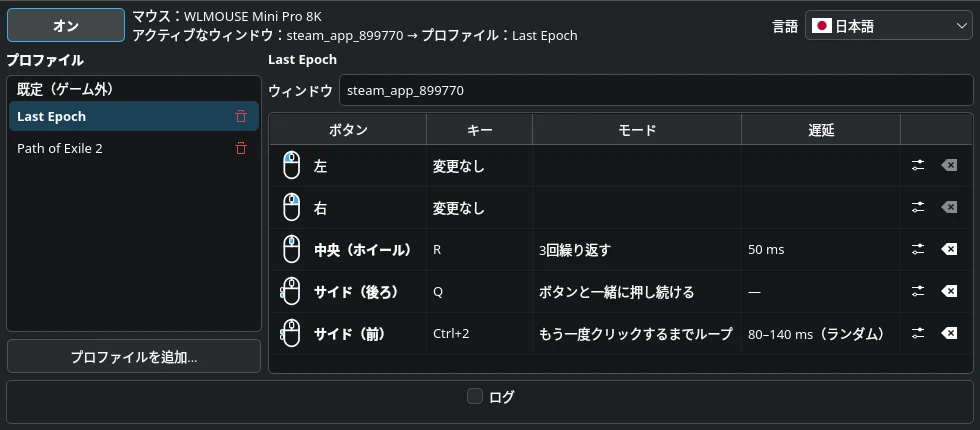
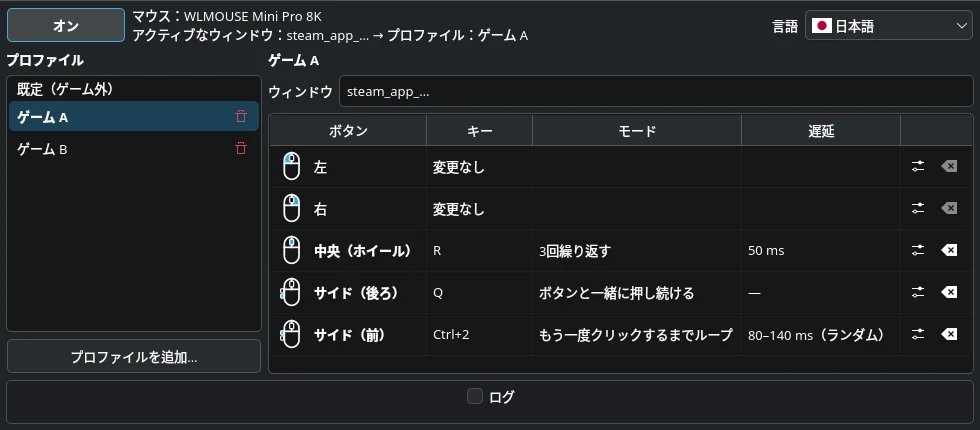
feat: remove specific games from screenshots and copy
Screenshots and link cards re-rendered with generic game profiles; alt text and the How it works badge no longer name a game or a Steam app id.

diff --git a/src/i18n/locales/ru.ts b/src/i18n/locales/ru.ts
@@ -35,7 +35,7 @@ const ru: Dict = {
   },
   screens: {
     mainAlt:
-      'Главное окно LinMBC: профиль Last Epoch, задняя боковая кнопка отправляет Q, передняя повторяет Ctrl+2 по кругу.',
+      'Главное окно LinMBC: профиль «Игра A», задняя боковая кнопка отправляет Q, передняя повторяет Ctrl+2 по кругу.',
     mappingAlt:
       'Настройка кнопки: клавиши Ctrl+2, повтор до следующего нажатия, случайная задержка от 80 до 140 мс.',
     mappingCaption: 'Для каждой кнопки: клавиши, как их отправляет нажатие, и задержка.',

diff --git a/src/i18n/locales/ja.ts b/src/i18n/locales/ja.ts
@@ -35,7 +35,7 @@ const ja: Dict = {
   },
   screens: {
     mainAlt:
-      'LinMBC のメインウィンドウ：Last Epoch のプロファイル。後ろのサイドボタンが Q を、前のサイドボタンが Ctrl+2 をループ送信。',
+      'LinMBC のメインウィンドウ：ゲーム A のプロファイル。後ろのサイドボタンが Q を、前のサイドボタンが Ctrl+2 をループ送信。',
     mappingAlt:
       'ボタンの設定：キー Ctrl+2、もう一度クリックするまでループ、遅延は 80〜140 ms のランダム。',
     mappingCaption: 'ボタンごとに：送るキー、クリック時の送り方、遅延。',

diff --git a/src/i18n/locales/zh-cn.ts b/src/i18n/locales/zh-cn.ts
@@ -34,7 +34,7 @@ const zhCn: Dict = {
       'LinMBC：在页面顶部任意位置点击，或按下鼠标侧键（后侧键发送 Q，前侧键循环发送 Ctrl+2）。',
   },
   screens: {
-    mainAlt: 'LinMBC 主窗口：Last Epoch 的配置，后侧键发送 Q，前侧键循环发送 Ctrl+2。',
+    mainAlt: 'LinMBC 主窗口：游戏 A 的配置，后侧键发送 Q，前侧键循环发送 Ctrl+2。',
     mappingAlt: '按键设置：按键 Ctrl+2，循环直到再次点击，随机延迟 80–140 ms。',
     mappingCaption: '每个按键：发送的按键、点击时的发送方式，以及延迟。',
   },

diff --git a/src/i18n/locales/de.ts b/src/i18n/locales/de.ts
@@ -35,7 +35,7 @@ const de: Dict = {
   },
   screens: {
     mainAlt:
-      'LinMBC-Hauptfenster: das Profil für Last Epoch – die hintere Seitentaste sendet Q, die vordere wiederholt Ctrl+2 in Schleife.',
+      'LinMBC-Hauptfenster: das Profil für Spiel A – die hintere Seitentaste sendet Q, die vordere wiederholt Ctrl+2 in Schleife.',
     mappingAlt:
       'Tasteneinstellung: Tasten Ctrl+2, Schleife bis zum nächsten Klick, zufällige Verzögerung zwischen 80 und 140 ms.',
     mappingCaption: 'Pro Taste: die Tasten, wie ein Klick sie sendet, und die Verzögerung.',

diff --git a/src/i18n/locales/es.ts b/src/i18n/locales/es.ts
@@ -35,7 +35,7 @@ const es: Dict = {
   },
   screens: {
     mainAlt:
-      'Ventana principal de LinMBC: el perfil de Last Epoch, con el botón lateral trasero enviando Q y el delantero repitiendo Ctrl+2 en bucle.',
+      'Ventana principal de LinMBC: el perfil de Juego A, con el botón lateral trasero enviando Q y el delantero repitiendo Ctrl+2 en bucle.',
     mappingAlt:
       'Ajustes del botón: teclas Ctrl+2, bucle hasta volver a pulsar, retardo aleatorio entre 80 y 140 ms.',
     mappingCaption: 'Cada botón: las teclas, cómo las envía un clic y el retardo.',

diff --git a/src/i18n/locales/ko.ts b/src/i18n/locales/ko.ts
@@ -35,7 +35,7 @@ const ko: Dict = {
   },
   screens: {
     mainAlt:
-      'LinMBC 기본 창: Last Epoch 프로필에서 뒤쪽 측면 버튼은 Q를, 앞쪽 측면 버튼은 Ctrl+2를 반복 전송합니다.',
+      'LinMBC 기본 창: 게임 A 프로필에서 뒤쪽 측면 버튼은 Q를, 앞쪽 측면 버튼은 Ctrl+2를 반복 전송합니다.',
     mappingAlt: '버튼 설정: 키 Ctrl+2, 다시 클릭할 때까지 반복, 80~140 ms 사이의 무작위 지연.',
     mappingCaption: '버튼마다: 보낼 키, 클릭 시 보내는 방식, 지연.',
   },

diff --git a/src/i18n/locales/pt-br.ts b/src/i18n/locales/pt-br.ts
@@ -35,7 +35,7 @@ const ptBr: Dict = {
   },
   screens: {
     mainAlt:
-      'Janela principal do LinMBC: perfil do Last Epoch, com o botão lateral de trás enviando Q e o da frente repetindo Ctrl+2 em loop.',
+      'Janela principal do LinMBC: perfil do Jogo A, com o botão lateral de trás enviando Q e o da frente repetindo Ctrl+2 em loop.',
     mappingAlt:
       'Configuração do botão: teclas Ctrl+2, loop até clicar de novo, delay aleatório entre 80 e 140 ms.',
     mappingCaption: 'Cada botão: as teclas, como o clique as envia e o delay.',

diff --git a/src/i18n/locales/pl.ts b/src/i18n/locales/pl.ts
@@ -35,7 +35,7 @@ const pl: Dict = {
   },
   screens: {
     mainAlt:
-      'Główne okno LinMBC: profil Last Epoch, tylny przycisk boczny wysyła Q, a przedni powtarza Ctrl+2 w pętli.',
+      'Główne okno LinMBC: profil Gra A, tylny przycisk boczny wysyła Q, a przedni powtarza Ctrl+2 w pętli.',
     mappingAlt:
       'Ustawienia przycisku: klawisze Ctrl+2, pętla do następnego kliknięcia, losowe opóźnienie od 80 do 140 ms.',
     mappingCaption: 'Dla każdego przycisku: klawisze, sposób ich wysyłania i opóźnienie.',

diff --git a/src/i18n/locales/en.ts b/src/i18n/locales/en.ts
@@ -34,7 +34,7 @@ const en: Dict = {
   },
   screens: {
     mainAlt:
-      'LinMBC main window: the Last Epoch profile, with the rear side button sending Q and the front side button looping Ctrl+2.',
+      'LinMBC main window: the Game A profile, with the rear side button sending Q and the front side button looping Ctrl+2.',
     mappingAlt:
       'Button settings: keys Ctrl+2, loop until clicked again, random delay between 80 and 140 ms.',
     mappingCaption: 'Each button: keys, how a click sends them, and the delay.',

diff --git a/src/i18n/locales/fr.ts b/src/i18n/locales/fr.ts
@@ -35,7 +35,7 @@ const fr: Dict = {
   },
   screens: {
     mainAlt:
-      'Fenêtre principale de LinMBC : le profil Last Epoch, le bouton latéral arrière envoie Q et l’avant répète Ctrl+2 en boucle.',
+      'Fenêtre principale de LinMBC : le profil Jeu A, le bouton latéral arrière envoie Q et l’avant répète Ctrl+2 en boucle.',
     mappingAlt:
       'Réglages du bouton : touches Ctrl+2, boucle jusqu’au prochain clic, délai aléatoire entre 80 et 140 ms.',
     mappingCaption:

diff --git a/src/backdrop/heroInput.ts b/src/backdrop/heroInput.ts
@@ -3,7 +3,7 @@ import type { SignalNetwork } from './signalNetwork';
 /** MouseEvent.button for the side buttons (the browser's Back and Forward). */
 const REAR = 3;
 const FRONT = 4;
-/** The front button's loop, as in the screenshots' Last Epoch profile. */
+/** The front button's loop, as in the screenshots' game profile. */
 const LOOP_LABELS = ['Ctrl', '2'];
 const LOOP_EVERY_MS = 420;
 /** A forgotten loop stops by itself (and keeps the animation rule of thumb). */

diff --git a/CLAUDE.md b/CLAUDE.md
@@ -40,7 +40,7 @@ Adapted from the portfolio's hero (same tide shader and frame loop). Mice and
 keycaps drift in three depth layers; gold signals travel mouse → key and light
 the key: a remap, drawn. The visitor joins in: a click sends signals to the
 nearest keys, the rear side button sends Q, the front one toggles a Ctrl+2
-loop (the screenshots' Last Epoch profile), with a toast in the page language.
+loop (the screenshots' game profile), with a toast in the page language.
 
 - Colours come from the theme tokens (`--color-*`, plain hex in the built CSS);
   the tide tones them into the night with `mix()` — full strength washed the
